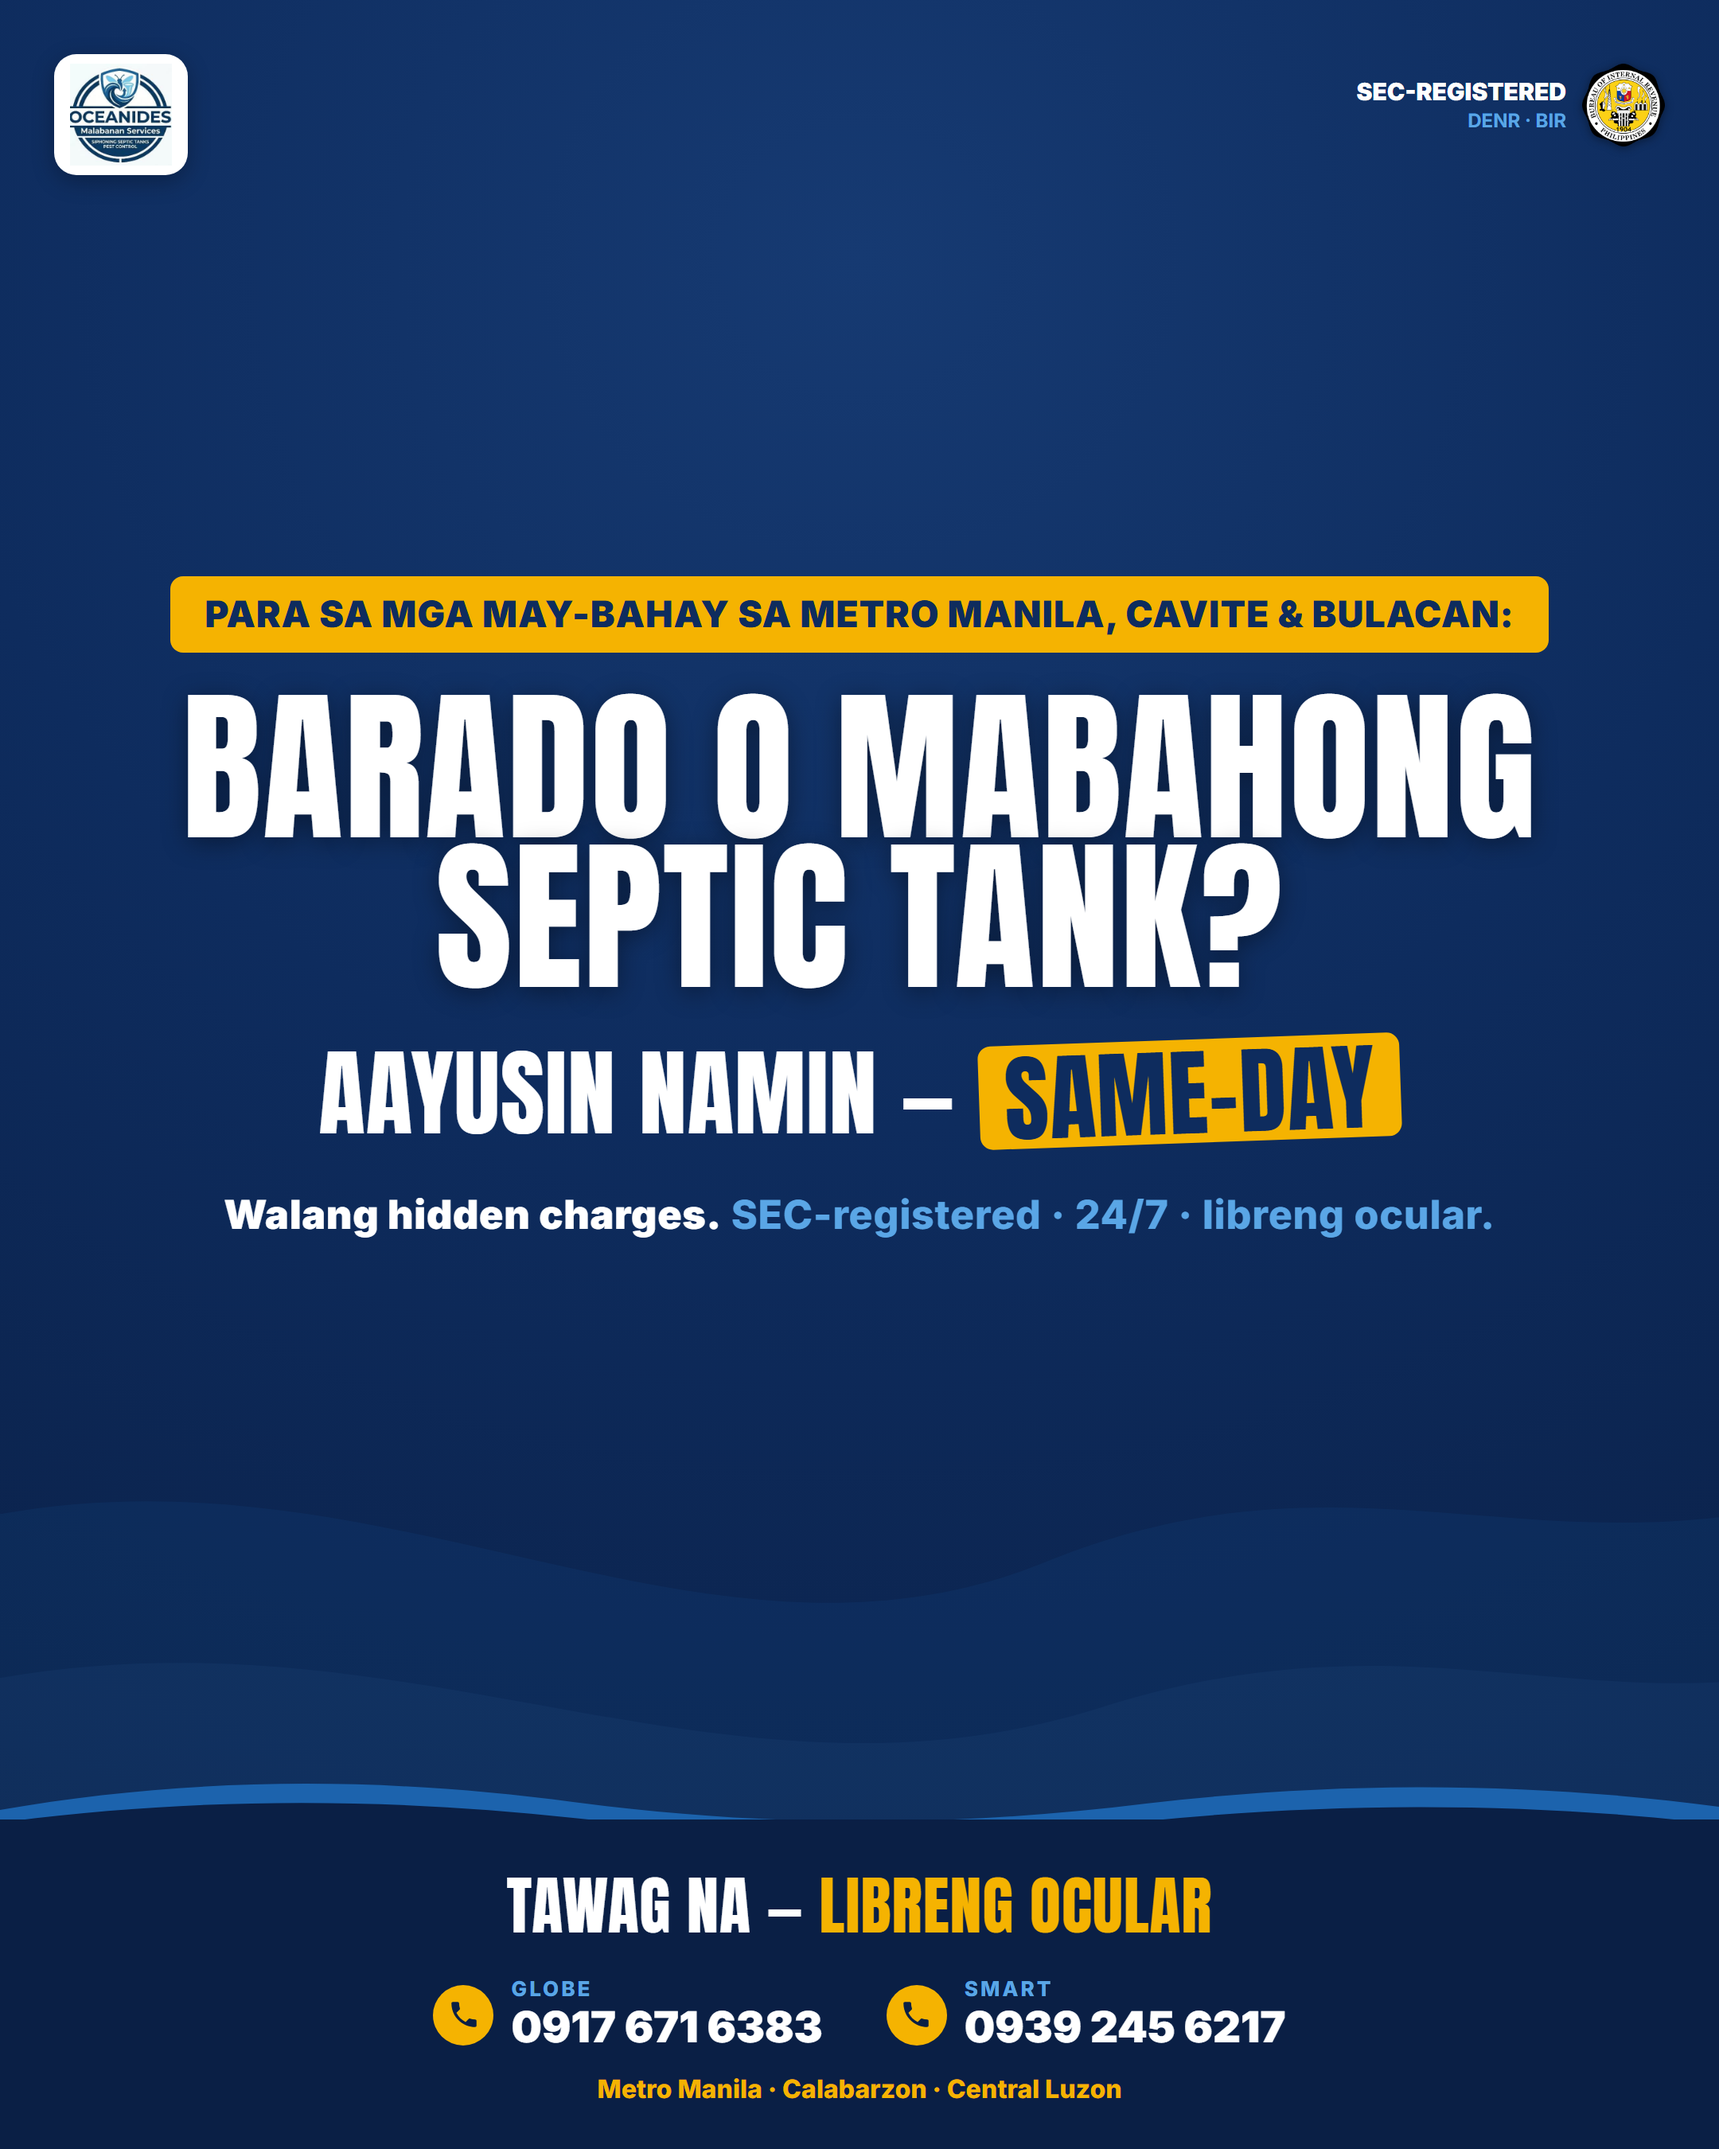
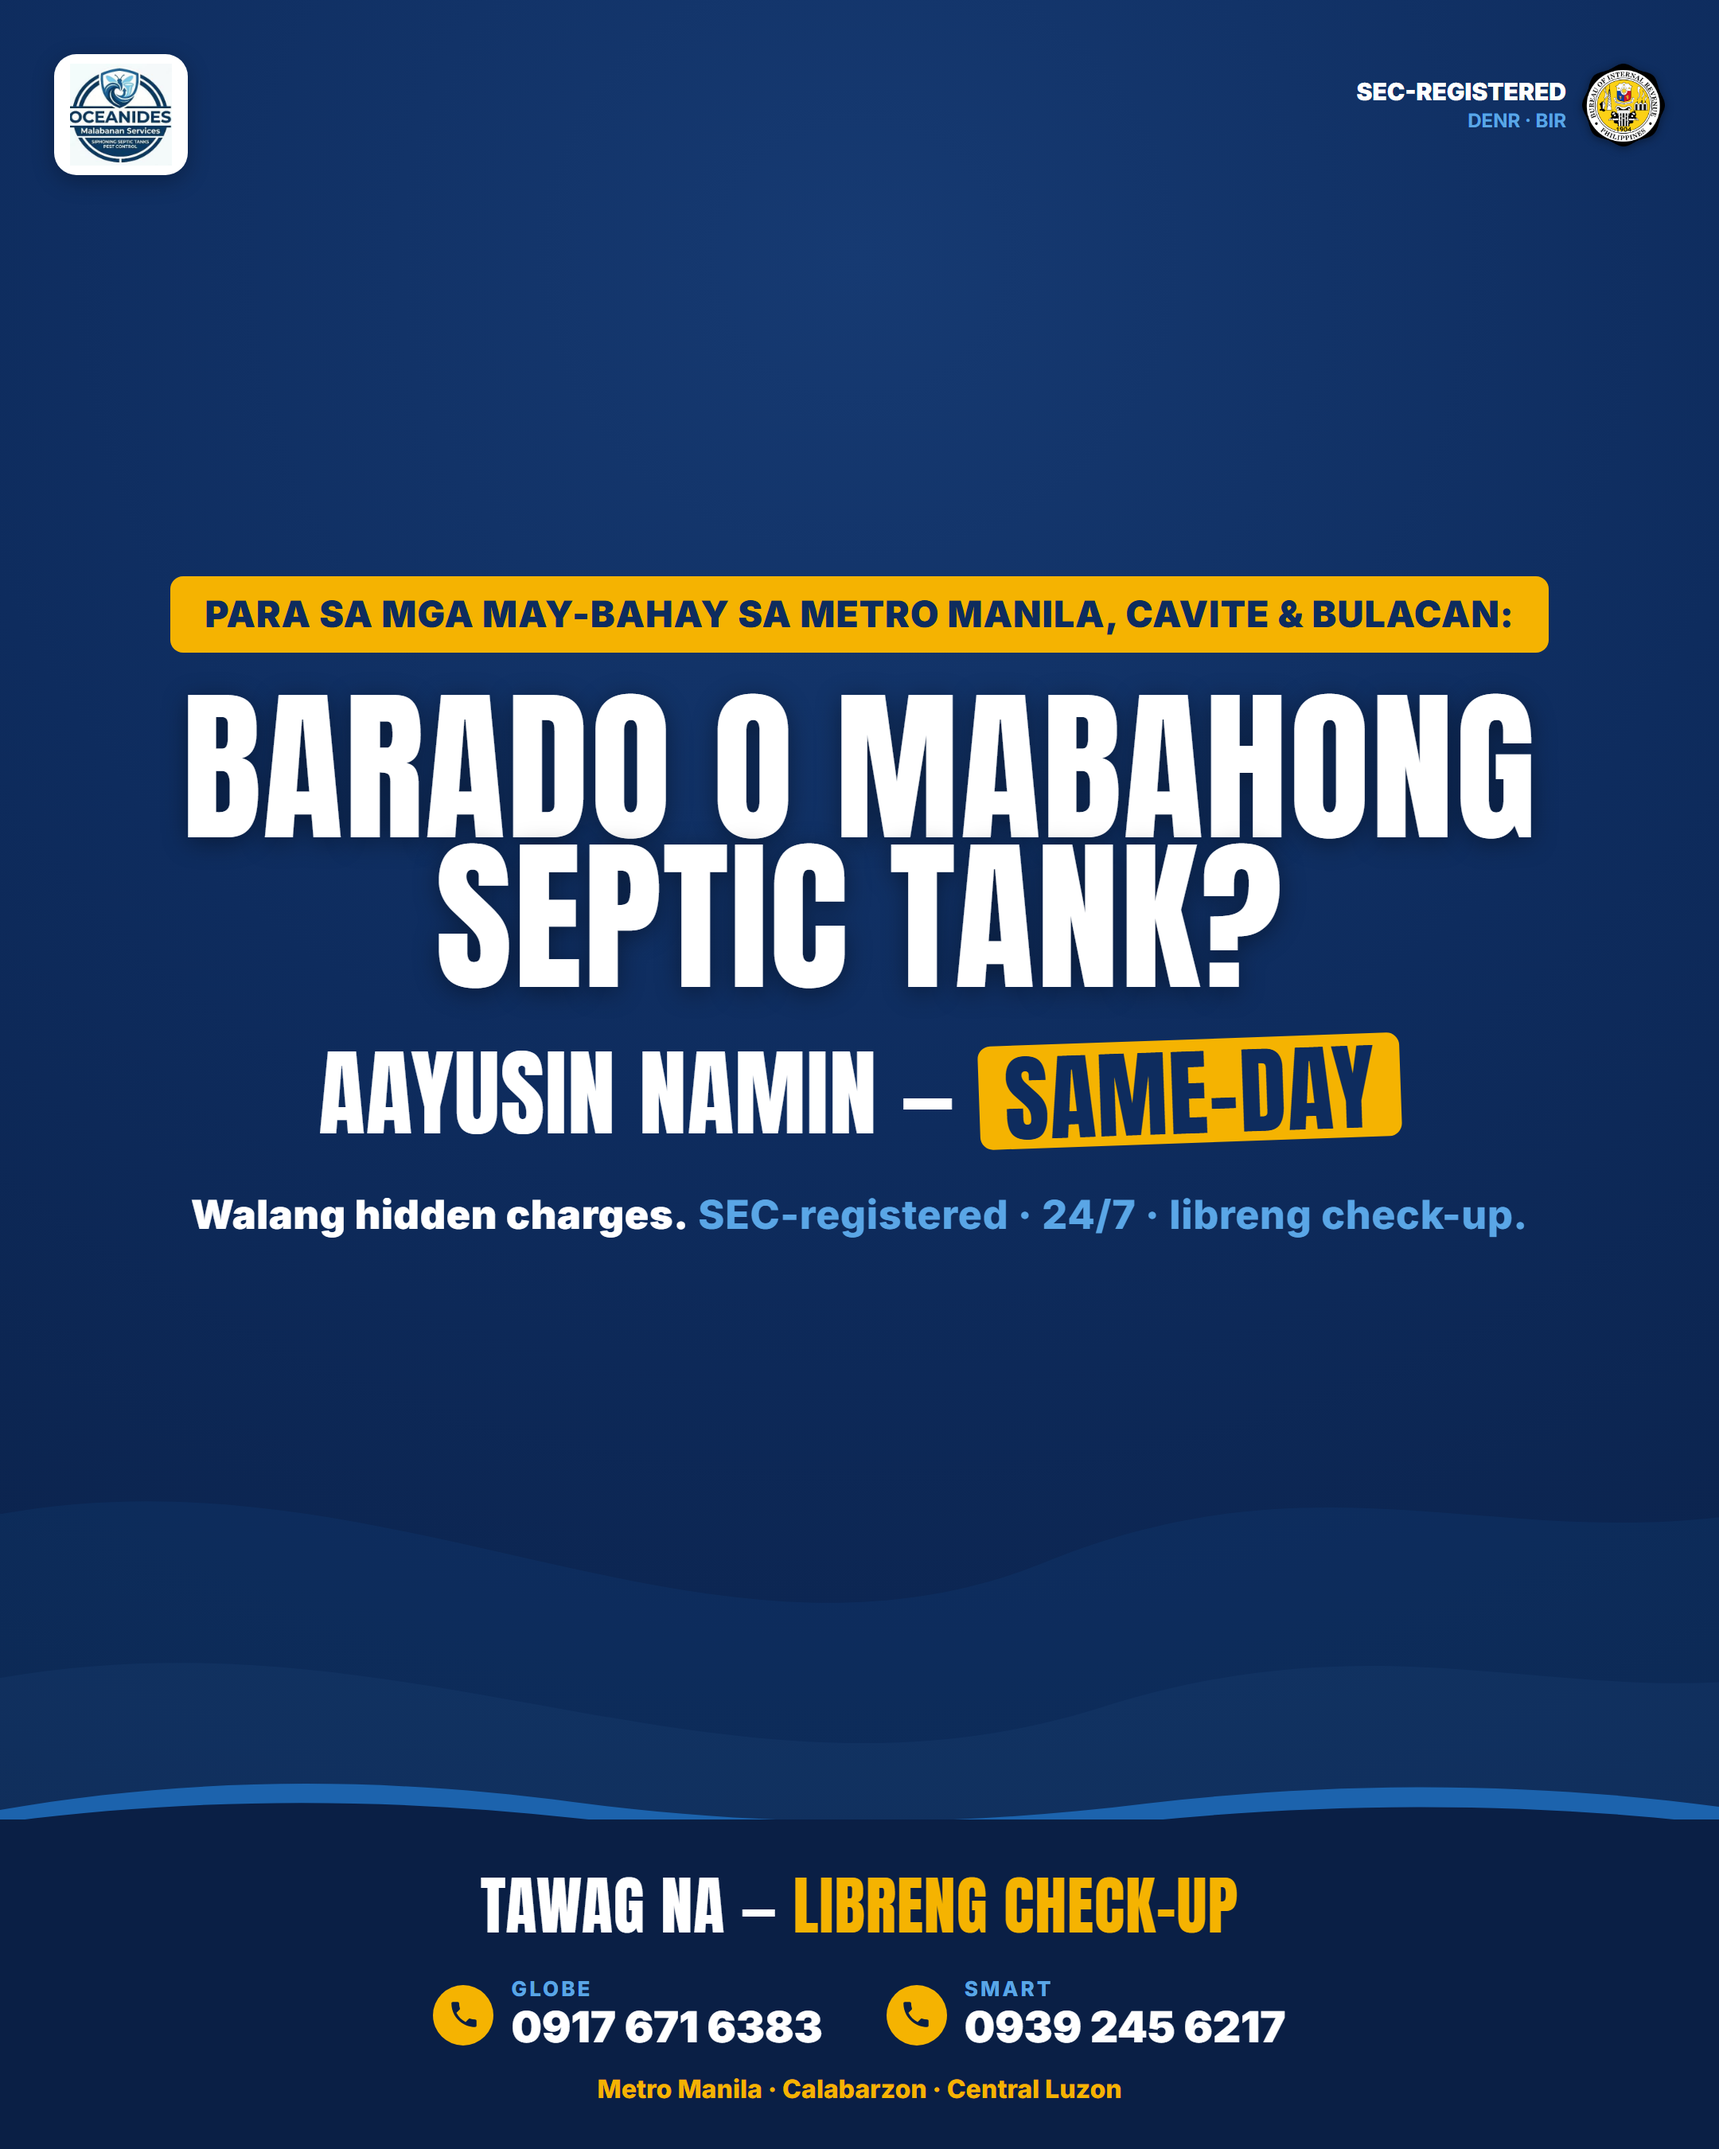
Standardize CTA to 'LIBRENG CHECK-UP' across all posts; purge 'ocular'

Changed region(s): [[0.0931, 0.56, 0.8995, 0.5911], [0.2792, 0.8711, 0.7134, 0.9022]]

diff --git a/clients/oceanides/templates/niche-callout-1.html b/clients/oceanides/templates/niche-callout-1.html
@@ -51,7 +51,7 @@
     <div class="callout">Para sa mga may-bahay sa Metro Manila, Cavite &amp; Bulacan:</div>
     <div class="hero">Barado o mabahong septic tank?</div>
     <div class="benefit">Aayusin namin &mdash; <span class="hl">same-day</span></div>
-    <div class="proof"><b>Walang hidden charges.</b> SEC-registered &middot; 24/7 &middot; libreng ocular.</div>
+    <div class="proof"><b>Walang hidden charges.</b> SEC-registered &middot; 24/7 &middot; libreng check-up.</div>
   </div>
 
   <svg class="wave" viewBox="0 0 1080 34" preserveAspectRatio="none" xmlns="http://www.w3.org/2000/svg">
@@ -59,7 +59,7 @@
     <path d="M0,34 L0,25 C120,9 240,9 360,22 C480,35 600,35 720,24 C840,12 960,12 1080,26 L1080,34 Z" fill="#0A1F45"/>
   </svg>
   <div class="contact">
-    <div class="cta">Tawag na &mdash; <em>libreng ocular</em></div>
+    <div class="cta">Tawag na &mdash; <em>libreng check-up</em></div>
     <div class="nums">
       <div class="num"><div class="ph"><svg viewBox="0 0 24 24"><path d="M6.62 10.79c1.44 2.83 3.76 5.14 6.59 6.59l2.2-2.2c.27-.27.67-.36 1.02-.24 1.12.37 2.33.57 3.57.57.55 0 1 .45 1 1V20c0 .55-.45 1-1 1-9.39 0-17-7.61-17-17 0-.55.45-1 1-1h3.5c.55 0 1 .45 1 1 0 1.24.2 2.45.57 3.57.11.35.03.74-.25 1.02l-2.2 2.18z"/></svg></div><div class="txt"><div class="lbl">Globe</div><div class="no">0917 671 6383</div></div></div>
       <div class="num"><div class="ph"><svg viewBox="0 0 24 24"><path d="M6.62 10.79c1.44 2.83 3.76 5.14 6.59 6.59l2.2-2.2c.27-.27.67-.36 1.02-.24 1.12.37 2.33.57 3.57.57.55 0 1 .45 1 1V20c0 .55-.45 1-1 1-9.39 0-17-7.61-17-17 0-.55.45-1 1-1h3.5c.55 0 1 .45 1 1 0 1.24.2 2.45.57 3.57.11.35.03.74-.25 1.02l-2.2 2.18z"/></svg></div><div class="txt"><div class="lbl">Smart</div><div class="no">0939 245 6217</div></div></div>

diff --git a/clients/oceanides/templates/offer-freeconsult.html b/clients/oceanides/templates/offer-freeconsult.html
@@ -39,7 +39,7 @@
 
   <div class="top">
     <span class="eyebrow">Ayaw mo ng gulat sa presyo?</span>
-    <h1>Free consultation</h1>
+    <h1>libreng check-up</h1>
     <div class="sub">Pa-check ang septic tank o barado mo &mdash; <b>libre, walang obligasyon.</b> Presyo agad bago simulan.</div>
   </div>
 
@@ -48,7 +48,7 @@
     <path d="M0,32 L0,23 C120,8 240,8 360,20 C480,32 600,32 720,22 C840,11 960,11 1080,24 L1080,32 Z" fill="#0A1F45"/>
   </svg>
   <div class="contact">
-    <div class="cta">Tawag na &mdash; <em>libre ang tingin</em></div>
+    <div class="cta">Tawag na &mdash; <em>libreng check-up</em></div>
     <div class="nums">
       <div class="num"><div class="ph"><svg viewBox="0 0 24 24"><path d="M6.62 10.79c1.44 2.83 3.76 5.14 6.59 6.59l2.2-2.2c.27-.27.67-.36 1.02-.24 1.12.37 2.33.57 3.57.57.55 0 1 .45 1 1V20c0 .55-.45 1-1 1-9.39 0-17-7.61-17-17 0-.55.45-1 1-1h3.5c.55 0 1 .45 1 1 0 1.24.2 2.45.57 3.57.11.35.03.74-.25 1.02l-2.2 2.18z"/></svg></div><div class="txt"><div class="lbl">Globe</div><div class="no">0917 671 6383</div></div></div>
       <div class="num"><div class="ph"><svg viewBox="0 0 24 24"><path d="M6.62 10.79c1.44 2.83 3.76 5.14 6.59 6.59l2.2-2.2c.27-.27.67-.36 1.02-.24 1.12.37 2.33.57 3.57.57.55 0 1 .45 1 1V20c0 .55-.45 1-1 1-9.39 0-17-7.61-17-17 0-.55.45-1 1-1h3.5c.55 0 1 .45 1 1 0 1.24.2 2.45.57 3.57.11.35.03.74-.25 1.02l-2.2 2.18z"/></svg></div><div class="txt"><div class="lbl">Smart</div><div class="no">0939 245 6217</div></div></div>

diff --git a/clients/oceanides/templates/edu-5senyales.html b/clients/oceanides/templates/edu-5senyales.html
@@ -59,7 +59,7 @@
     <path d="M0,32 L0,23 C120,8 240,8 360,20 C480,32 600,32 720,22 C840,11 960,11 1080,24 L1080,32 Z" fill="#0A1F45"/>
   </svg>
   <div class="contact">
-    <div class="cta">Pa-check na &mdash; <em>free consultation</em></div>
+    <div class="cta">Pa-check na &mdash; <em>libreng check-up</em></div>
     <div class="nums">
       <div class="num"><div class="ph"><svg viewBox="0 0 24 24"><path d="M6.62 10.79c1.44 2.83 3.76 5.14 6.59 6.59l2.2-2.2c.27-.27.67-.36 1.02-.24 1.12.37 2.33.57 3.57.57.55 0 1 .45 1 1V20c0 .55-.45 1-1 1-9.39 0-17-7.61-17-17 0-.55.45-1 1-1h3.5c.55 0 1 .45 1 1 0 1.24.2 2.45.57 3.57.11.35.03.74-.25 1.02l-2.2 2.18z"/></svg></div><div class="txt"><div class="lbl">Globe</div><div class="no">0917 671 6383</div></div></div>
       <div class="num"><div class="ph"><svg viewBox="0 0 24 24"><path d="M6.62 10.79c1.44 2.83 3.76 5.14 6.59 6.59l2.2-2.2c.27-.27.67-.36 1.02-.24 1.12.37 2.33.57 3.57.57.55 0 1 .45 1 1V20c0 .55-.45 1-1 1-9.39 0-17-7.61-17-17 0-.55.45-1 1-1h3.5c.55 0 1 .45 1 1 0 1.24.2 2.45.57 3.57.11.35.03.74-.25 1.02l-2.2 2.18z"/></svg></div><div class="txt"><div class="lbl">Smart</div><div class="no">0939 245 6217</div></div></div>

diff --git a/clients/oceanides/templates/education-1.html b/clients/oceanides/templates/education-1.html
@@ -85,7 +85,7 @@
     </svg>
 
     <div class="contact">
-      <div class="cta">Tawag na &mdash; <em>free consultation</em></div>
+      <div class="cta">Tawag na &mdash; <em>libreng check-up</em></div>
       <div class="nums">
         <div class="num">
           <div class="ph"><svg viewBox="0 0 24 24"><path d="M6.62 10.79c1.44 2.83 3.76 5.14 6.59 6.59l2.2-2.2c.27-.27.67-.36 1.02-.24 1.12.37 2.33.57 3.57.57.55 0 1 .45 1 1V20c0 .55-.45 1-1 1-9.39 0-17-7.61-17-17 0-.55.45-1 1-1h3.5c.55 0 1 .45 1 1 0 1.24.2 2.45.57 3.57.11.35.03.74-.25 1.02l-2.2 2.18z"/></svg></div>

diff --git a/clients/oceanides/templates/before-after-1.html b/clients/oceanides/templates/before-after-1.html
@@ -234,7 +234,7 @@
         <path d="M0,40 L0,30 C120,10 240,10 360,26 C480,42 600,42 720,28 C840,14 960,14 1080,30 L1080,40 Z" fill="#0A1F45"/>
       </svg>
 
-      <div class="cta">Tawag na &mdash; <em>free consultation</em></div>
+      <div class="cta">Tawag na &mdash; <em>libreng check-up</em></div>
 
       <div class="nums">
         <div class="num">

diff --git a/clients/oceanides/captions/before-after-1.md b/clients/oceanides/captions/before-after-1.md
@@ -2,7 +2,7 @@
 
 **Pillar:** Before/After + Job Proof (trust → lead)
 **Format:** 4:5 (1080×1350)
-**CTA:** DM / Call → libreng ocular
+**CTA:** DM / Call → libreng check-up
 
 ---
 
@@ -16,6 +16,6 @@ Huwag mong hintayin lumala — at mangamoy buong bahay. Isang tawag lang, aalis 
 
 Sipsip septic tank · declogging · plumbing. Serbisyo sa Metro Manila, Calabarzon, at Central Luzon.
 
-📞 Tawag na: GLOBE 0917-671-6383 · SMART 0939-245-6217 — o mag-DM lang, **libreng konsultasyon.**
+📞 Tawag na: GLOBE 0917-671-6383 · SMART 0939-245-6217 — o mag-DM lang, **libreng check-up.**
 
 #malabanan #sipsipseptictank #pozonegro #barado #declogging #plumbing #MetroManila #Cavite #Bulacan #Laguna #septictankcleaning #Oceanides
